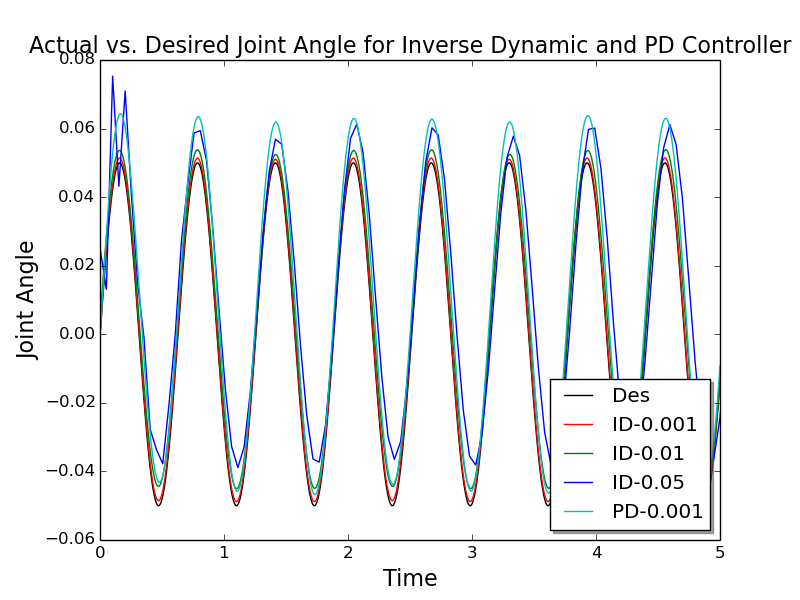
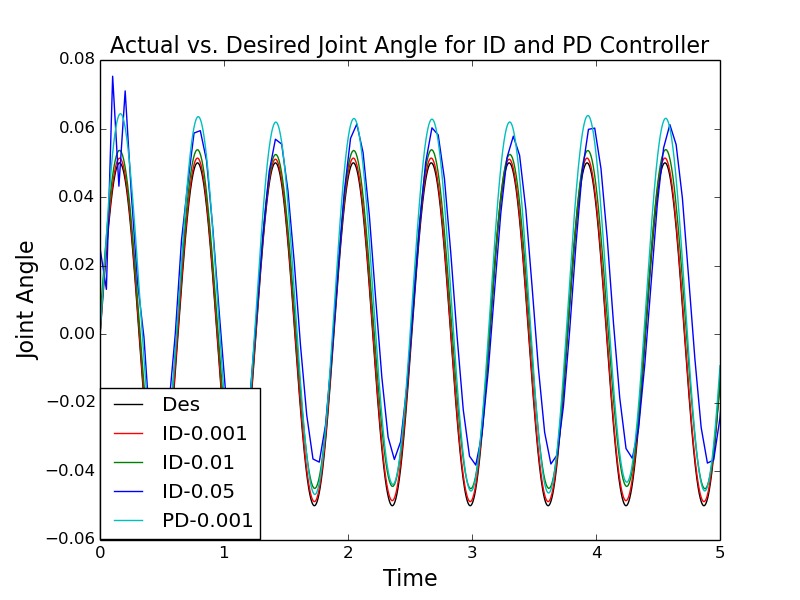
Changed location of legend

Changed region(s): [[0.6875, 0.63, 0.9062, 0.9], [0.125, 0.63, 0.3438, 0.9], [0.0312, 0.06, 1.0, 0.09]]

diff --git a/ControllerData/des_vs_act/elbow/plotGearJoints.py b/ControllerData/des_vs_act/elbow/plotGearJoints.py
@@ -62,12 +62,13 @@ plt.plot(t001, y5,'c' ,label='PD-0.001')
 # set limits
 axPlot = plt.subplot(111)
 axPlot.set_xlim(-.001, 5)
-s = 'Actual vs. Desired Joint Angle for Inverse Dynamic and PD Controller';
+s = 'Actual vs. Desired Joint Angle for ID and PD Controller';
 # add titles, labels, and legend
 plt.title(s, fontdict=font)
 plt.xlabel('Time', fontdict=font)
 plt.ylabel('Joint Angle', fontdict=font)
-plt.legend(loc=4, shadow=True)
+#plt.legend(loc=4, shadow=True)
+plt.legend(bbox_to_anchor=(.0, 0.317), loc=2, borderaxespad=0.)
 
 # annotate rise time (interval)
 #plt.axhspan(set_point-error_band_delta,set_point+error_band_delta, facecolor='0.5', alpha=0.25)

diff --git a/ControllerData/des_vs_act/lfinger/plotGearJoints.py b/ControllerData/des_vs_act/lfinger/plotGearJoints.py
@@ -62,12 +62,13 @@ plt.plot(t001, y5,'c' ,label='PD-0.001')
 # set limits
 axPlot = plt.subplot(111)
 axPlot.set_xlim(-.001, 5)
-s = 'Actual vs. Desired Joint Angle for Inverse Dynamic and PD Controller';
+s = 'Actual vs. Desired Joint Angle for ID and PD Controller';
 # add titles, labels, and legend
 plt.title(s, fontdict=font)
 plt.xlabel('Time', fontdict=font)
 plt.ylabel('Joint Angle', fontdict=font)
-plt.legend(loc=4, shadow=True)
+#plt.legend(loc=4, shadow=True)
+plt.legend(bbox_to_anchor=(.0, 0.317), loc=2, borderaxespad=0.)
 
 # annotate rise time (interval)
 #plt.axhspan(set_point-error_band_delta,set_point+error_band_delta, facecolor='0.5', alpha=0.25)

diff --git a/ControllerData/des_vs_act/plotGearJoints.py b/ControllerData/des_vs_act/plotGearJoints.py
@@ -62,12 +62,13 @@ plt.plot(t001, y5,'c' ,label='PD-0.001')
 # set limits
 axPlot = plt.subplot(111)
 axPlot.set_xlim(-.001, 5)
-s = 'Actual vs. Desired Joint Angle for Inverse Dynamic and PD Controller';
+s = 'Actual vs. Desired Joint Angle for ID and PD Controller';
 # add titles, labels, and legend
 plt.title(s, fontdict=font)
 plt.xlabel('Time', fontdict=font)
 plt.ylabel('Joint Angle', fontdict=font)
-plt.legend(loc=4, shadow=True)
+#plt.legend(loc=4, shadow=True)
+plt.legend(bbox_to_anchor=(.0, 0.317), loc=2, borderaxespad=0.)
 
 # annotate rise time (interval)
 #plt.axhspan(set_point-error_band_delta,set_point+error_band_delta, facecolor='0.5', alpha=0.25)

diff --git a/ControllerData/des_vs_act/rfinger/plotGearJoints.py b/ControllerData/des_vs_act/rfinger/plotGearJoints.py
@@ -62,12 +62,13 @@ plt.plot(t001, y5,'c' ,label='PD-0.001')
 # set limits
 axPlot = plt.subplot(111)
 axPlot.set_xlim(-.001, 5)
-s = 'Actual vs. Desired Joint Angle for Inverse Dynamic and PD Controller';
+s = 'Actual vs. Desired Joint Angle for ID and PD Controller';
 # add titles, labels, and legend
 plt.title(s, fontdict=font)
 plt.xlabel('Time', fontdict=font)
 plt.ylabel('Joint Angle', fontdict=font)
-plt.legend(loc=4, shadow=True)
+#plt.legend(loc=4, shadow=True)
+plt.legend(bbox_to_anchor=(.0, 0.317), loc=2, borderaxespad=0.)
 
 # annotate rise time (interval)
 #plt.axhspan(set_point-error_band_delta,set_point+error_band_delta, facecolor='0.5', alpha=0.25)

diff --git a/ControllerData/des_vs_act/shoulderlift/plotGearJoints.py b/ControllerData/des_vs_act/shoulderlift/plotGearJoints.py
@@ -62,12 +62,13 @@ plt.plot(t001, y5,'c' ,label='PD-0.001')
 # set limits
 axPlot = plt.subplot(111)
 axPlot.set_xlim(-.001, 5)
-s = 'Actual vs. Desired Joint Angle for Inverse Dynamic and PD Controller';
+s = 'Actual vs. Desired Joint Angle for ID and PD Controller';
 # add titles, labels, and legend
 plt.title(s, fontdict=font)
 plt.xlabel('Time', fontdict=font)
 plt.ylabel('Joint Angle', fontdict=font)
-plt.legend(loc=4, shadow=True)
+#plt.legend(loc=4, shadow=True)
+plt.legend(bbox_to_anchor=(.0, 0.317), loc=2, borderaxespad=0.)
 
 # annotate rise time (interval)
 #plt.axhspan(set_point-error_band_delta,set_point+error_band_delta, facecolor='0.5', alpha=0.25)

diff --git a/ControllerData/des_vs_act/shoulderpan/plotGearJoints.py b/ControllerData/des_vs_act/shoulderpan/plotGearJoints.py
@@ -62,12 +62,13 @@ plt.plot(t001, y5,'c' ,label='PD-0.001')
 # set limits
 axPlot = plt.subplot(111)
 axPlot.set_xlim(-.001, 5)
-s = 'Actual vs. Desired Joint Angle for Inverse Dynamic and PD Controller';
+s = 'Actual vs. Desired Joint Angle for ID and PD Controller';
 # add titles, labels, and legend
 plt.title(s, fontdict=font)
 plt.xlabel('Time', fontdict=font)
 plt.ylabel('Joint Angle', fontdict=font)
-plt.legend(loc=4, shadow=True)
+#plt.legend(loc=4, shadow=True)
+plt.legend(bbox_to_anchor=(.0, 0.317), loc=2, borderaxespad=0.)
 
 # annotate rise time (interval)
 #plt.axhspan(set_point-error_band_delta,set_point+error_band_delta, facecolor='0.5', alpha=0.25)

diff --git a/ControllerData/des_vs_act/wrist1/plotGearJoints.py b/ControllerData/des_vs_act/wrist1/plotGearJoints.py
@@ -62,12 +62,13 @@ plt.plot(t001, y5,'c' ,label='PD-0.001')
 # set limits
 axPlot = plt.subplot(111)
 axPlot.set_xlim(-.001, 5)
-s = 'Actual vs. Desired Joint Angle for Inverse Dynamic and PD Controller';
+s = 'Actual vs. Desired Joint Angle for ID and PD Controller';
 # add titles, labels, and legend
 plt.title(s, fontdict=font)
 plt.xlabel('Time', fontdict=font)
 plt.ylabel('Joint Angle', fontdict=font)
-plt.legend(loc=4, shadow=True)
+#plt.legend(loc=4, shadow=True)
+plt.legend(bbox_to_anchor=(.0, 0.317), loc=2, borderaxespad=0.)
 
 # annotate rise time (interval)
 #plt.axhspan(set_point-error_band_delta,set_point+error_band_delta, facecolor='0.5', alpha=0.25)

diff --git a/ControllerData/des_vs_act/wrist2/plotGearJoints.py b/ControllerData/des_vs_act/wrist2/plotGearJoints.py
@@ -62,12 +62,13 @@ plt.plot(t001, y5,'c' ,label='PD-0.001')
 # set limits
 axPlot = plt.subplot(111)
 axPlot.set_xlim(-.001, 5)
-s = 'Actual vs. Desired Joint Angle for Inverse Dynamic and PD Controller';
+s = 'Actual vs. Desired Joint Angle for ID and PD Controller';
 # add titles, labels, and legend
 plt.title(s, fontdict=font)
 plt.xlabel('Time', fontdict=font)
 plt.ylabel('Joint Angle', fontdict=font)
-plt.legend(loc=4, shadow=True)
+#plt.legend(loc=4, shadow=True)
+plt.legend(bbox_to_anchor=(.0, 0.317), loc=2, borderaxespad=0.)
 
 # annotate rise time (interval)
 #plt.axhspan(set_point-error_band_delta,set_point+error_band_delta, facecolor='0.5', alpha=0.25)

diff --git a/ControllerData/des_vs_act/wrist3/plotGearJoints.py b/ControllerData/des_vs_act/wrist3/plotGearJoints.py
@@ -62,12 +62,13 @@ plt.plot(t001, y5,'c' ,label='PD-0.001')
 # set limits
 axPlot = plt.subplot(111)
 axPlot.set_xlim(-.001, 5)
-s = 'Actual vs. Desired Joint Angle for Inverse Dynamic and PD Controller';
+s = 'Actual vs. Desired Joint Angle for ID and PD Controller';
 # add titles, labels, and legend
 plt.title(s, fontdict=font)
 plt.xlabel('Time', fontdict=font)
 plt.ylabel('Joint Angle', fontdict=font)
-plt.legend(loc=4, shadow=True)
+#plt.legend(loc=4, shadow=True)
+plt.legend(bbox_to_anchor=(.0, 0.317), loc=2, borderaxespad=0.)
 
 # annotate rise time (interval)
 #plt.axhspan(set_point-error_band_delta,set_point+error_band_delta, facecolor='0.5', alpha=0.25)
